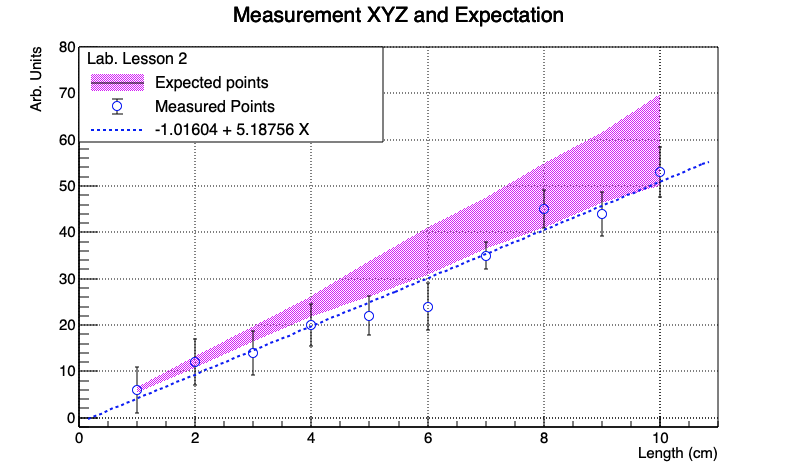
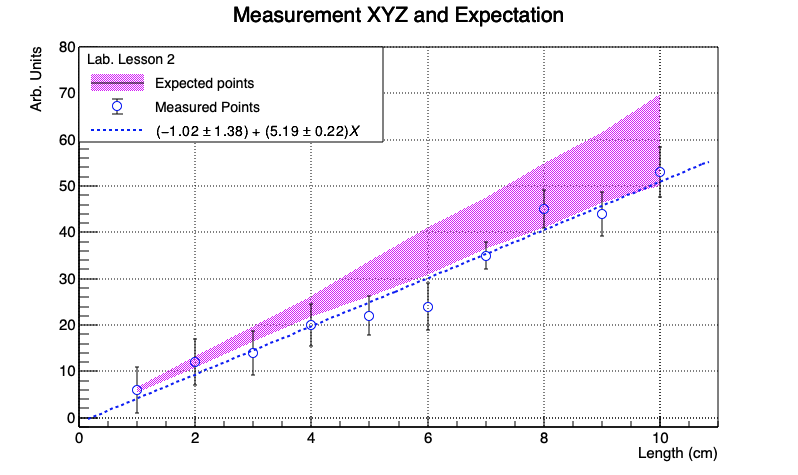
seguimiento1_root

Changed region(s): [[0.1203, 0.0884, 0.4511, 0.2947]]

diff --git a/Documents/Seguimiento1/CC1036665120/ExperimentalGraph.C b/Documents/Seguimiento1/CC1036665120/ExperimentalGraph.C
@@ -43,7 +43,6 @@ void ExperimentalGraph(){
     auto fit = new TF1("linearFit", linearFunct, 0, 0, 10);
     fit->SetLineColor(kBlue);
     fit->SetLineStyle(kDashed);
-    //f1->Draw("same");
 
     // call TH1::Fit with the name of the TF1 object
     measured->Fit("linearFit");
@@ -51,6 +50,8 @@ void ExperimentalGraph(){
     // Get parameters of the fitting
     Double_t p1 = fit->GetParameter(0);
     Double_t p2 = fit->GetParameter(1);
+    Double_t e1 = fit->GetParError(0);
+    Double_t e2 = fit->GetParError(1);
    
 
     
@@ -65,7 +66,7 @@ void ExperimentalGraph(){
 
     // Fit: params in the legend 
     char paramStr[60];
-    sprintf( paramStr, "%g + %g X", p1, p2);
+    sprintf( paramStr, "(%.2f \\pm  %.2f) + (%.2f \\pm  %.2f) X", p1, e1, p2, e2);
     legend->AddEntry(fit, paramStr, "L");
     
 
@@ -81,12 +82,11 @@ void ExperimentalGraph(){
     // Draw: option "3" shows the errors as a band, P point, E errors
     mg->Add( expected, "A3" );
     mg->Add( measured , "APE" );
-    //mg->Add( fit , "AL" );
     
     mg->Draw("APE3"); 
     legend->Draw();
 
-    
+    // save
     c1->Print("linearFit.png");  
 
 
